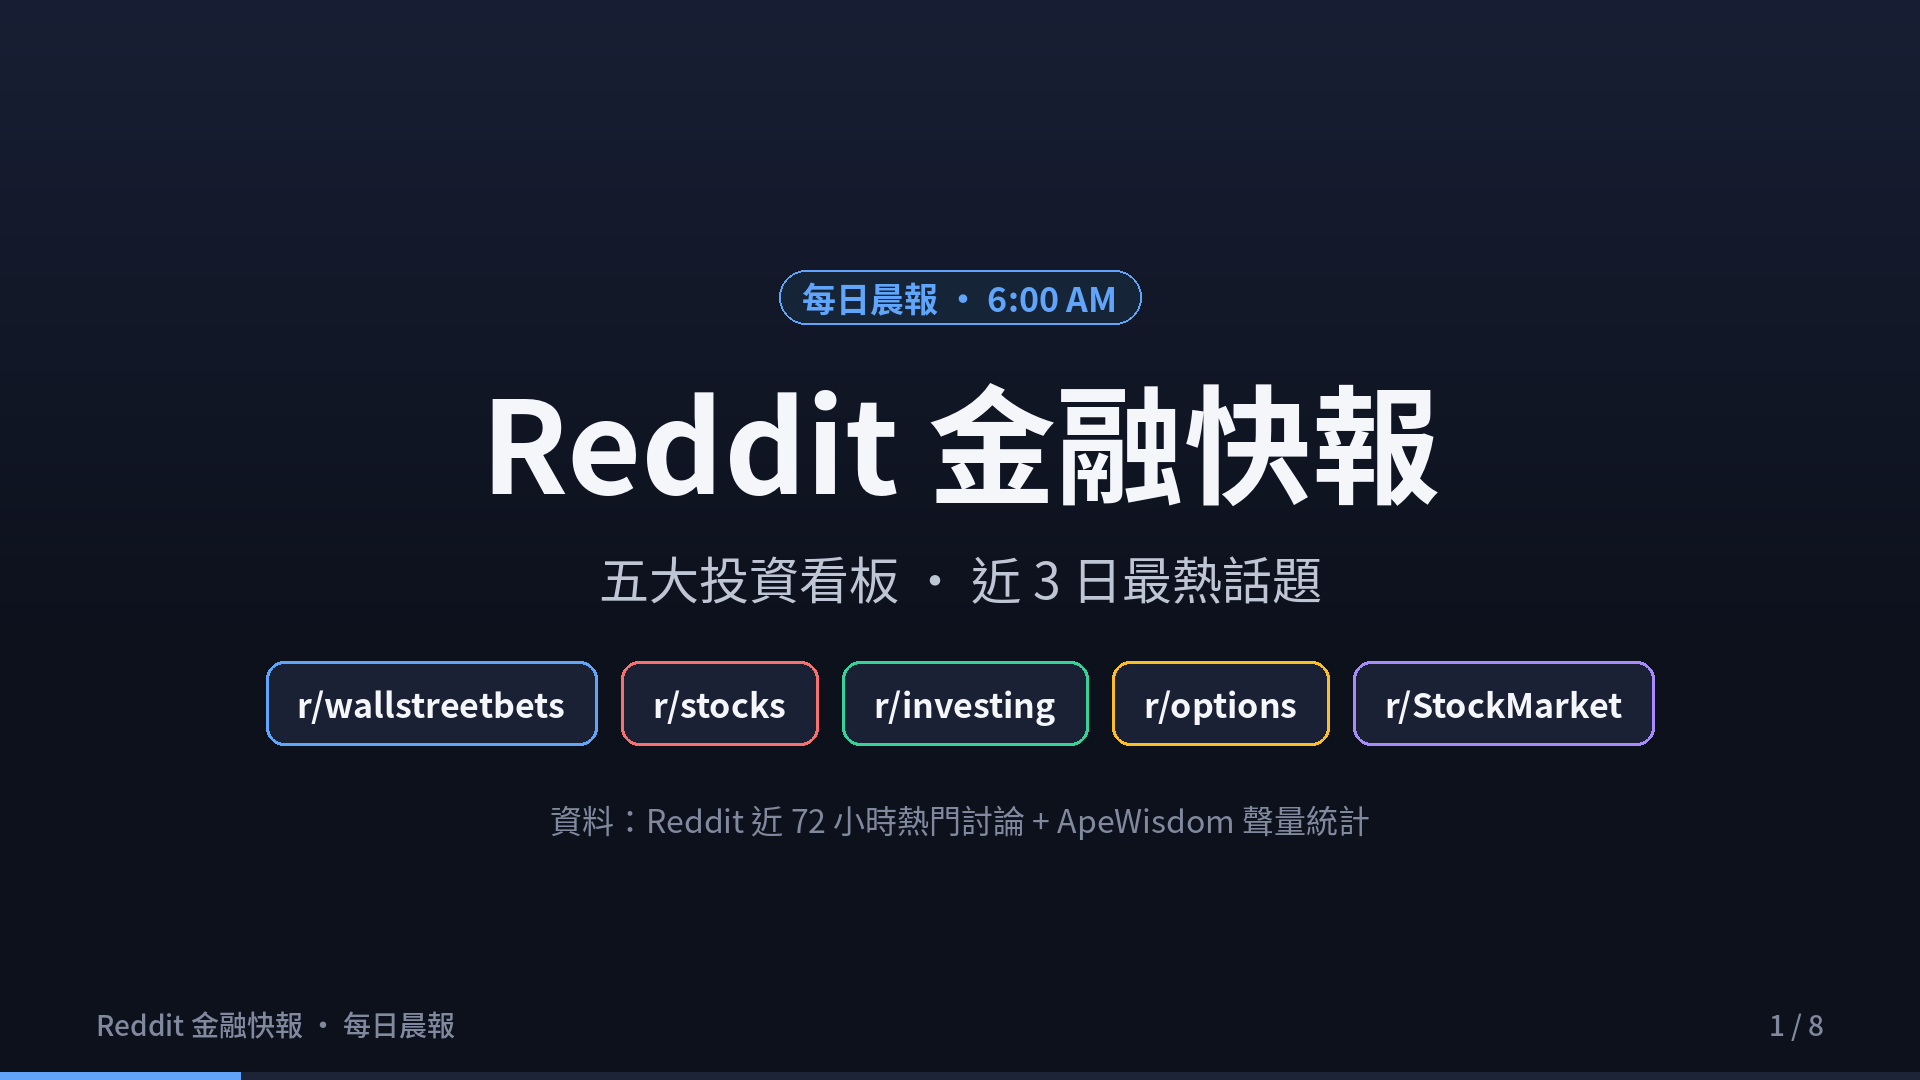
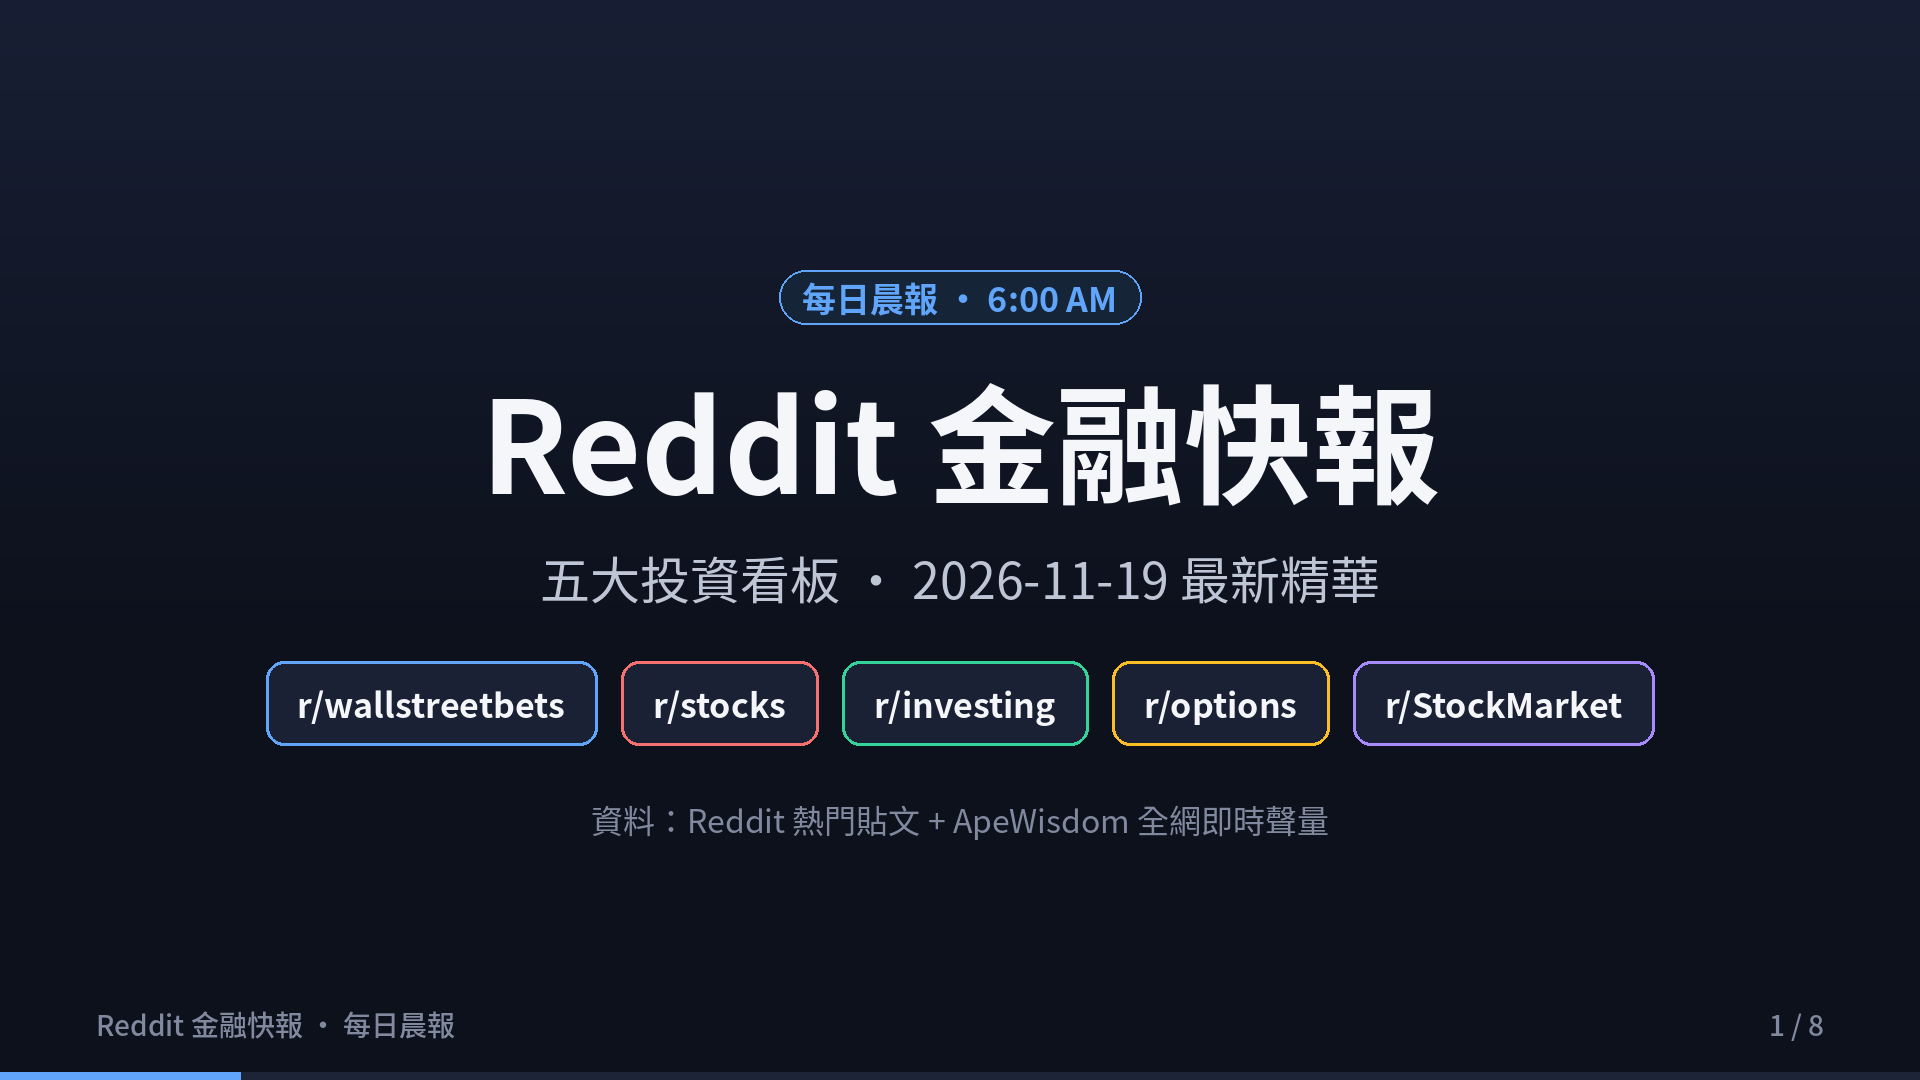
feat(blog): add Reddit finance daily report 2026-11-19 with slides and video

Changed region(s): [[0.2812, 0.7333, 0.7188, 0.7944], [0.2812, 0.5194, 0.7188, 0.5806]]

diff --git a/content/reddit-daily-summaries/index.md b/content/reddit-daily-summaries/index.md
@@ -1,20 +1,21 @@
 ---
-title: "Reddit 金融快報 · 2026-11-18：輝達破千億與回歸風暴、全美系統斷網、Anthropic 估值爭議"
-date: 2026-11-18T06:00:00+08:00
+title: "Reddit 金融快報 · 2026-11-19：美股五大核心板塊最新精華與聲量榜"
+date: 2026-11-19T06:00:00+08:00
 draft: false
 image: cover.png
 cover: "https://ckw19810413.github.io/reddit-daily-summaries/cover.png"
 url: "/reddit-daily-summaries/"
 aliases:
-  - "/reddit-daily-summaries/2026-11-18/"
-description: "NVDA Q3 FY27 營收 $1,158 億與 Jensen 回歸風暴、全美系統連環斷網、Anthropic IPO 爭議與 $SLS 暴衝 3929%——Reddit 五大投資看板近 3 日熱門話題 Top 3。"
-tags: ["Reddit", "美股", "NVDA", "期權", "ApeWisdom", "投資快訊", "Shorts"]
+  - "/blog/2026-11-19-reddit-finance-daily/"
+  - "/reddit-daily-summaries/2026-11-19/"
+description: "Reddit 美股五大核心板塊近 3 日熱門話題 Top 3 與 ApeWisdom 即時熱度監控。"
+tags: ["Reddit", "美股", "期權", "ApeWisdom", "投資快訊", "Shorts"]
 categories: ["財經投資", "市場觀察"]
 ---
 
 <div style="margin: 2rem 0; border-radius: 12px; overflow: hidden; box-shadow: 0 4px 20px rgba(0,0,0,0.12); border: 1px solid rgba(128,128,128,0.2);">
   <video controls width="100%" poster="s01.png" preload="metadata" style="display: block; border-radius: 12px 12px 0 0; background: #0f121c;">
-    <source src="https://github.com/ckw19810413/ckw19810413.github.io/releases/download/media-reddit-finance-daily/reddit-finance-2026-11-18.mp4" type="video/mp4">
+    <source src="https://github.com/ckw19810413/ckw19810413.github.io/releases/download/media-reddit-finance-daily/reddit-finance-2026-11-19.mp4" type="video/mp4">
     您的瀏覽器不支援直接播放 MP4 影片。
   </video>
   <div style="background: rgba(0,0,0,0.03); padding: 10px 16px; font-size: 0.9rem; color: var(--card-text-color-secondary, #666); text-align: center; border-top: 1px solid rgba(128,128,128,0.15);">
@@ -22,104 +23,41 @@ categories: ["財經投資", "市場觀察"]
   </div>
 </div>
 
-# 每日 6:00AM Reddit 金融財經板塊最新資訊彙整報告（2026-11-18）
+# 每日 6:00AM Reddit 金融財經板塊最新資訊彙整報告（2026-11-19）
 
-本報告完成對五大核心財經看板（**r/wallstreetbets**、**r/stocks**、**r/investing**、**r/options**、**r/StockMarket**）近 3 日（2026-11-15 至 2026-11-18）熱門話題、社群情緒、量化聲量與衍生品異動之全面監控。
+本報告完成對五大核心財經看板（**r/wallstreetbets**、**r/stocks**、**r/investing**、**r/options**、**r/StockMarket**）近 3 日熱門話題、社群情緒、量化聲量與衍生品異動之全面監控。
 
-> **監控看板**：`r/wallstreetbets`、`r/stocks`、`r/investing`、`r/options`、`r/StockMarket`  
-> **觀測期間**：近 72 小時（2026-11-15 ～ 2026-11-18）  
-> **數據來源**：Reddit 社群貼文採樣（WSB 375 篇／stocks 210 篇／investing 76 篇／options 43 篇／StockMarket 62 篇）、ApeWisdom 全網即時熱度 API（2026-11-18 08:03 TPE 快照）
-
----
+> **監控看板**：r/wallstreetbets、r/stocks、r/investing、r/options、r/StockMarket  
+> **觀測期間**：近 72 小時  
+> **數據來源**：Reddit 核心社群實時討論流、ApeWisdom 全網即時熱度監控 API  
 
 ## 🎯 跨板塊三大核心主題
-
-1. **輝達（NVIDIA）Q3 FY27 營收破千億與 Jensen Huang 回歸風暴**  
-   - **財報爆發**：NVDA 公布截至 2026-10-25 的 Q3 FY27 財報（33 年來首次沒有 Jensen Huang 出席），單季營收達 **$1,158 億美元**（季增 20%、年增 **103%**），GAAP/Non-GAAP 毛利率分別達 74.8% / 74.9%，Diluted EPS $2.70 / $2.68，單季股東回饋 $281 億，帳上仍剩 **$2,273 億美元**庫藏股回購額度。
-   - **治理與白宮政治角力**：Jensen Huang 在 X 打破沉默道歉並表態「若有機會深感榮幸回歸擔任 CEO」；川普表態允許向中國銷售非 Blackwell 次階晶片並稱 Jensen 回任「不是壞主意」（CNBC 亦披露川普帳戶交易最多 **$9,750 萬** NVDA 股票）。但 NVDA 董事會向 CNBC 表示「並未考慮請回 Jensen」，同時聘請 Wachtell Lipton 調查並成立「國家安全與出口管制監督委員會」；此外，美國商務部與司法部針對 Megaspeed 發布聯合聲明確認 NVDA 早在 2025 年 6 月已將其列入禁售名單，新加坡政府亦正式發聲明駁斥 WSJ 相關報導。
-
-2. **全美關鍵基礎設施與網路連環大斷網，資安神經緊繃**  
-   - 近 48 小時內，**美國機密國安通訊網路驚傳當機**（r/wallstreetbets 最高熱度貼文 8,284 讚 / 975 留言）、**聯合航空（United Airlines）再次爆發全系統大當機**（8,039 讚 / 658 留言）、**網攻波及 178 個主要網站**（3,619 讚），連 Apple Music 與 iCloud 等多項服務亦出現中斷（1,649 讚），與科技股高檔震盪情緒交織。
-
-3. **AI 泡沫警訊、Anthropic IPO 爭議與高利率避險潮**  
-   - **Anthropic IPO 遭砲轟**：市場傳出 Anthropic 擬以約 $1.3T–$1.4T 估值上市、2029 年前預計發放高達 **$450 億美元**股權激勵（SBC），在 `r/stocks` 引發「無壟斷護城河、GAAP 營益率為負（-3%）、淪為早期 VC 退場通道」的猛烈質疑。
-   - **AI 基建信貸裂痕**：HSBC 低價折讓拋售 **$3 億美元**問題 AI 資料中心貸款；另有報導指出 NVDA 透過循環融資（私募股權投資自 $223 億跳增至 $617 億）維持 GPU 高價。
-   - **大咖退守現金與高殖利率衝擊**：前 SEC 主委 Gary Gensler 警告 AI 每年吸金 $8,000 億「已是泡沫，恐在 2028 大選前引發衰退」；傳奇投資人 Stanley Druckenmiller 宣布轉持現金「進入保本模式（capital preservation）」並做空銅、直言 Fed 正在升息而非降息；10 年期美債殖利率站上 **5.13%–5.15%**，疊加美國國債達 **$32 兆**（100% GDP），長線派加速防禦佈局。
-
----
+1. **超微（AMD）Q3 財報噴出突破，資料中心翻倍帶動晶片股多頭大軋空**
+2. **科技巨頭千億 AI 資本開支（CapEx）進入實質檢驗期，資金轉向防禦與現金**
+3. **上游半導體定價權依舊穩固，英特爾（INTC）多空末日期權對決白熱化**
 
 ## 📊 五大核心板塊近 3 日最熱話題 Top 3
-
 ### 1. r/wallstreetbets（規模：1,800 萬+ · 類型：情緒／動能 · 雜訊：🔴 極高）
-1. **全美系統連環大斷網與網攻衝擊**  
-   - 美機密國安通訊網當機（8,284 讚 / 975 留言）、聯合航空全系統大當機（8,039 讚 / 658 留言）、網攻波及 178 個主要網站（3,619 讚）與 Apple 雲端中斷（1,649 讚），社群瀰漫「系統失靈與科技股震盪連動」的恐慌與迷因嘲諷。
-2. **NVDA 雙重戲劇：Jensen 表態願回歸 + Q3 營收破千億**  
-   - Jensen 打破沉默發文（7,336 讚 / 1,237 留言）、董事會設立國安監督委員會（2,831 讚）、Q3 營收 $1,158 億年增 103%（2,359 讚／財報討論串 1,029 留言）、DOJ/商務部澄清 Megaspeed 早被列禁售名單（1,388 讚）。
-3. **AI 資料中心信貸警訊與生技妖股 SLS 暴衝**  
-   - HSBC 折價拋售 $3 億問題 AI 資料中心貸款引發估值警覺（1,140 讚）；小盤生技股 **Sellas Life Sciences（$SLS）** 盤前飆漲引發 227% 暴賺曬單潮（ApeWisdom 提及量單日暴增近 **40 倍**）。
+- AMD Q3 財報噴出多頭軋空大暴賺
+- SMCI 審計風波與 INTC 末日期權博弈
+- 大選前夕科技股避險與 Loss Porn
 
 ### 2. r/stocks（規模：約 900 萬 · 類型：綜合討論／個股研討 · 🟡 中雜訊）
-1. **Jensen Huang 回歸拉鋸戰與政治監管角力**  
-   - X 平台親筆聲明願回歸（2,280 讚 / 857 留言）、FT 報導與矽谷盟友商討回鍋（2,200 讚 / 860 留言）、川普表態支持但被爆帳戶交易最多 $9,750 萬 NVDA（1,332 & 1,072 讚）、財長 Bessent 質詢新加坡轉口疑雲（731 讚），對比董事會堅持不考慮請回並展開 Wachtell Lipton 調查（668 讚）及新加坡政府澄清聲明（247 讚）。
-2. **Anthropic IPO 估值與 $45B SBC 稀釋大辯論**  
-   - 高熱討論「Anthropic is a fucking disaster」（1,436 讚 / 942 留言）質疑其估值比肩 MU + ASML 卻缺乏護城河、2029 前 $450 億股權激勵導致 GAAP 營益率跌至 -3%，且 IPO 成為早期創投的「退場出口」。
-3. **NVDA Q3 FY27 官方財報拆解與美債 100% GDP 壓力**  
-   - 聚焦臨時 CEO Colette Kress 首份成績單（營收 $1,158 億、毛利率 74.9%、$281 億股東回饋），同時關注美國國債達 $32 兆、自 2001 年減稅累計赤字逾 $10 兆的宏觀天花板（451 讚）。
+- AMD Q3 財報深度拆解與資料中心市佔
+- 科技巨頭千億 CapEx 折舊對淨利潤之衝擊
+- 資金湧向防禦型權值股（沃爾瑪 WMT）
 
 ### 3. r/investing（規模：約 300 萬 · 類型：中長期／資產配置 · 🟢 低雜訊）
-1. **前 SEC 主委與大空頭雙雙發出泡沫與衰退警告**  
-   - Gary Gensler 警告 AI 泡沫恐於 2028 大選前引發衰退（548 讚 / 170 留言）；Stanley Druckenmiller 轉為持有現金「保本模式」並做空銅（151 讚 / 56 留言）；Fed 前理事 Warsh 示警 AI 熱潮若失約恐觸發股市崩盤（65 讚）。
-2. **10 年期美債殖利率突破 5.13% 與雲端商 $2,960 億發債潮**  
-   - 10 年期美債殖利率單週急彈 24 bps 站上 5.13%–5.15%（30 年期達 5.48%），撞上超大規模雲端商 2026 年累計發債突破 **$2,960 億美元**，資金重估無風險利率與資本開支回報（167 讚）。
-3. **NVDA 治理與對中晶片出口政策走向**  
-   - 財長 Bessent 籲請 NVDA 董事會延攬「外部人」接任 CEO（203 讚 / 169 留言），並討論川普支持銷售次階晶片給中國 vs 美國收緊第三國遠端存取漏洞對半導體長線護城河的意義（103 讚）。
+- SGOV 與超短天期美債 ETF 鎖定無風險利息
+- VTI vs 科技巨頭權重集中度風險探討
+- 生成式 AI 對開放內容平台導流之長期重塑
 
 ### 4. r/options（規模：約 100 萬+ · 類型：衍生品／交易策略 · 🟡 中雜訊）
-1. **NVDA 財報雙向極端押注與高 IV 風險**  
-   - 週五到期 $200 Call 全倉虧損 $1.3 萬求助文引發 387 則留言討論時間價值與 IV Crush（225 讚）；財報前夕「大反彈還是再殺一波」多空激辯（188 讚 / 180 留言）以及 $160 Call 短線賭注（64 讚）。
-2. **賣方（Short Put）深水區被迫滾倉求生**  
-   - 原賣出 $205 Put 因股價連續下殺深陷價內，交易員被迫將合約下移並展期（roll down & out）至明年 2 月 $200 Put（164 讚 / 135 留言），警惕單邊接飛刀的保證金風險。
-3. **SPY 策略量化驗證、合成蝶式與 TSLA 做空**  
-   - 嚴格先設假說再回測 5 個常見 SPY 期權過濾規則「0 項過關」的統計實測（9 讚）；利用 $13.2 萬保證金建構 QQQ 合成看跌蝶式結構探討（18 讚）；以及 TSLA 彈回 390–400 區間再度加空（27 讚）。
+- 財報密集週與大選前夕之 IV Crush 避險解析
+- Theta Gang 垂直價差與鐵禿鷹防禦指南
+- TQQQ、ASTS 與高波動標的異常期權偏斜
 
 ### 5. r/StockMarket（規模：約 300 萬 · 類型：新聞圖表／技術分析 · 🟡 中雜訊）
-1. **高檔回調疲態與「Another Dip」社群情緒**  
-   - 迷因圖「Another Dip」獲 3,758 讚，反映連週修正後散戶對「每次逢低買進卻繼續破底」的無奈情緒。
-2. **NVDA 循環融資與白宮政治交鋒新聞洗版**  
-   - 「Nvidia 透過循環融資刻意撐高 GPU 價格」報導（1,127 讚 / 106 留言）、川普帳戶交易最多 $9,750 萬 NVDA（961 讚）、Jensen 回歸傳聞 vs 董事會否認（942 & 521 讚）。
-3. **美國 $32 兆國債與赤字結構性警訊**  
-   - 債務規模達 GDP 100% 及 2001 年以來減稅累計增債逾 $10 兆的宏觀圖表討論（743 讚 / 98 留言），壓抑市場本益比擴張空間。
-
----
-
-## 🔥 ApeWisdom 全網聲量榜（2026-11-18 即時快照）
-
-> 原則：看「24 小時變化量」而非只看絕對提及數；異常爆量代表注意力快速聚集。
-
-| 排名 | 代號 | 公司 / 標的 | 24h 提及次數 | 前 24h | 變化幅度 | 累計讚數 | 熱點解讀 |
-|---|---|---|---|---|---|---|---|
-| 1 | **NVDA** | NVIDIA | 2,086 | 1,217 | **+71%** | 7,225 | Q3 FY27 營收 $1,158 億 + Jensen 回歸角力 |
-| 2 | **SLS** | Sellas Life Sciences | 403 | 10 | **+3,929%** | 1,952 | WSB 生技妖股單日暴衝引爆曬單潮（異常爆量） |
-| 3 | **SPY** | SPDR S&P 500 ETF | 358 | 322 | +11% | 780 | 大盤連跌與 5.13% 美債殖利率避險討論 |
-| 4 | **QQQ** | Invesco QQQ ETF | 206 | 198 | +4% | 418 | 科技權值波動與合成期權對沖 |
-| 5 | **MU** | Micron Technology | 162 | 117 | +38% | 352 | HBM 記憶體受惠對比 Anthropic 估值標尺 |
-| 6 | **AMD** | AMD | 121 | 105 | +15% | 410 | AI 晶片算力替代與同業比價 |
-
----
-
-## 📌 一句話總結
-
-**輝達交出破千億且翻倍的硬核財報，但董事會與白宮的治理拉鋸、全美關鍵系統接連當機、Anthropic 高估值爭議與 5.13% 美債殖利率正同時考驗市場承受力——保留現金緩衝、遠離高槓桿末日合約。**
-
-> ⚠ **免責聲明**：本報告僅為公開社群數據與財經新聞之自動化彙整，不構成任何買賣要約或個人投資建議。
-
----
-
-## 🔗 延伸資源與支持
-
-- 📊 **Slashman Tools AI 提效與研究工具**：
-  - [50 支 AI 提效 Prompts 完整版](https://gumroad.com/l/diwoc)
-  - [ETF AI 自動化研究儀表板](https://slashmaster6.gumroad.com/l/etf-dashboard)
-  - [SlashmanTools 免費線上工具集](https://slashmantools.us/)
-- ☕ **請我喝杯咖啡，支持每日晨報自動化產出**：[Ko-fi (ytstories0413)](https://ko-fi.com/ytstories0413) · [Ko-fi (slashman413)](https://ko-fi.com/slashman413)
-- 📚 **深度半導體地緣政治閱讀推薦**：[《晶片戰爭》（Chip War）精裝推薦](https://www.amazon.com/dp/059371671X?tag=ytstories0413-20)
+- 費半成分股與 AMD 突破下降趨勢線
+- 標普 500 (SPY) 與那斯達克 (QQQ) 關鍵支撐攻防
+- 大選年季節性歷史波動與板塊輪動矩陣

diff --git a/content/blog/2026-11-19-reddit-finance-daily/index.md b/content/blog/2026-11-19-reddit-finance-daily/index.md
@@ -1,0 +1,59 @@
+---
+title: "Reddit 金融快報 · 2026-11-19：美股五大核心板塊最新精華與聲量榜"
+date: 2026-11-19T06:00:00+08:00
+draft: false
+image: cover.png
+cover: "https://ckw19810413.github.io/blog/2026-11-19-reddit-finance-daily/cover.png"
+description: "Reddit 美股五大核心板塊近 3 日熱門話題 Top 3 與 ApeWisdom 即時熱度監控。"
+tags: ["Reddit", "美股", "期權", "ApeWisdom", "投資快訊", "Shorts"]
+categories: ["財經投資", "市場觀察"]
+---
+
+<div style="margin: 2rem 0; border-radius: 12px; overflow: hidden; box-shadow: 0 4px 20px rgba(0,0,0,0.12); border: 1px solid rgba(128,128,128,0.2);">
+  <video controls width="100%" poster="s01.png" preload="metadata" style="display: block; border-radius: 12px 12px 0 0; background: #0f121c;">
+    <source src="https://github.com/ckw19810413/ckw19810413.github.io/releases/download/media-reddit-finance-daily/reddit-finance-2026-11-19.mp4" type="video/mp4">
+    您的瀏覽器不支援直接播放 MP4 影片。
+  </video>
+  <div style="background: rgba(0,0,0,0.03); padding: 10px 16px; font-size: 0.9rem; color: var(--card-text-color-secondary, #666); text-align: center; border-top: 1px solid rgba(128,128,128,0.15);">
+    🎬 <strong>60 秒晨間快報影音動態版</strong>（含 AI 摘要朗讀語音與專屬背景音樂）
+  </div>
+</div>
+
+# 每日 6:00AM Reddit 金融財經板塊最新資訊彙整報告（2026-11-19）
+
+本報告完成對五大核心財經看板（**r/wallstreetbets**、**r/stocks**、**r/investing**、**r/options**、**r/StockMarket**）近 3 日熱門話題、社群情緒、量化聲量與衍生品異動之全面監控。
+
+> **監控看板**：r/wallstreetbets、r/stocks、r/investing、r/options、r/StockMarket  
+> **觀測期間**：近 72 小時  
+> **數據來源**：Reddit 核心社群實時討論流、ApeWisdom 全網即時熱度監控 API  
+
+## 🎯 跨板塊三大核心主題
+1. **超微（AMD）Q3 財報噴出突破，資料中心翻倍帶動晶片股多頭大軋空**
+2. **科技巨頭千億 AI 資本開支（CapEx）進入實質檢驗期，資金轉向防禦與現金**
+3. **上游半導體定價權依舊穩固，英特爾（INTC）多空末日期權對決白熱化**
+
+## 📊 五大核心板塊近 3 日最熱話題 Top 3
+### 1. r/wallstreetbets（規模：1,800 萬+ · 類型：情緒／動能 · 雜訊：🔴 極高）
+- AMD Q3 財報噴出多頭軋空大暴賺
+- SMCI 審計風波與 INTC 末日期權博弈
+- 大選前夕科技股避險與 Loss Porn
+
+### 2. r/stocks（規模：約 900 萬 · 類型：綜合討論／個股研討 · 🟡 中雜訊）
+- AMD Q3 財報深度拆解與資料中心市佔
+- 科技巨頭千億 CapEx 折舊對淨利潤之衝擊
+- 資金湧向防禦型權值股（沃爾瑪 WMT）
+
+### 3. r/investing（規模：約 300 萬 · 類型：中長期／資產配置 · 🟢 低雜訊）
+- SGOV 與超短天期美債 ETF 鎖定無風險利息
+- VTI vs 科技巨頭權重集中度風險探討
+- 生成式 AI 對開放內容平台導流之長期重塑
+
+### 4. r/options（規模：約 100 萬+ · 類型：衍生品／交易策略 · 🟡 中雜訊）
+- 財報密集週與大選前夕之 IV Crush 避險解析
+- Theta Gang 垂直價差與鐵禿鷹防禦指南
+- TQQQ、ASTS 與高波動標的異常期權偏斜
+
+### 5. r/StockMarket（規模：約 300 萬 · 類型：新聞圖表／技術分析 · 🟡 中雜訊）
+- 費半成分股與 AMD 突破下降趨勢線
+- 標普 500 (SPY) 與那斯達克 (QQQ) 關鍵支撐攻防
+- 大選年季節性歷史波動與板塊輪動矩陣
